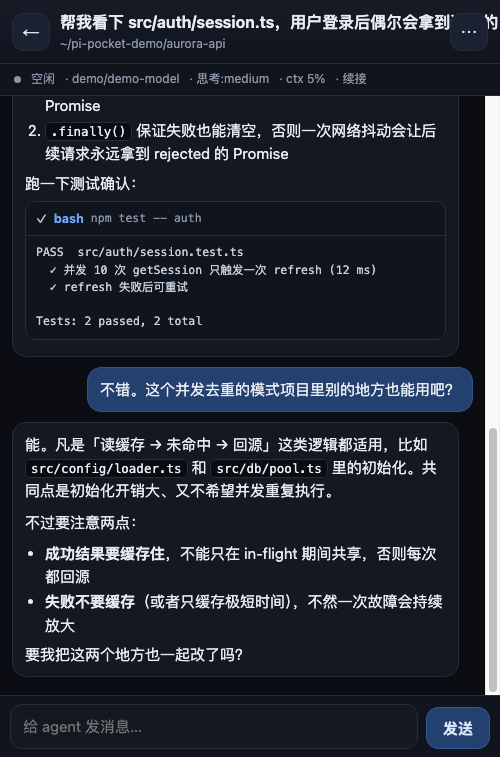
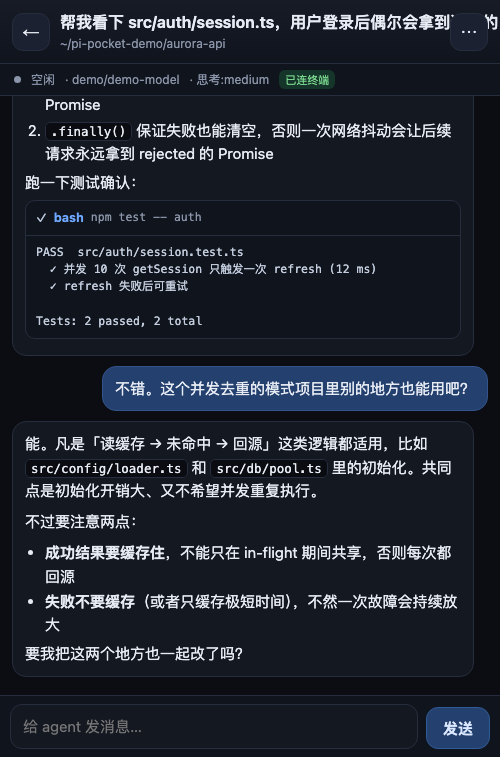
仓库清理：文档同步到当前实现，删掉被取代的旧脚本
桥接从「固定端口 8788」改成「每个 pi 一个 unix socket」之后，文档还停在旧设计上，
逐项对齐：

- docs/bridge-protocol.md 重写：unix socket 传传输方式与理由（固定端口为什么失败）、
  自愈机制、实际转发的事件集合、完整命令表、进程级单例（/reload 的坑）、
  服务端判定逻辑。顺带注明 queue_update / compaction_* / auto_retry_* 不是
  pi 扩展事件，别往转发列表里加。
- README：架构图改掉 8788；「三种进入方式」改成四种并把「接入终端」放最前；
  「已知限制」里"端口固定、只能一个 pi 提供桥接"这条已经不成立，改成现在的
  per-pid socket 行为；补上「续接模式下终端也开着同一会话」的提示说明。
- 删除 start.sh 和 tools/run.sh（都已被 ./pocket 取代），README/android README
  里的引用一并改掉。
- 目录结构补齐新增文件（pocket、extensions/、bridge-client.mjs、tui-hub.mjs）。
- 删掉两个没被任何文档引用的孤儿截图，其中 screenshot-android-legacy.png 还是
  screenshot-android-chat.png 的重复文件。
- 用合成数据重拍文档截图：现在首页会显示「终端 pi 正在运行」接入卡片，
  并新增一张「终端开着 pi 但连不上」的提示横幅截图。
  演示环境通过 PI_CODING_AGENT_DIR 与真实环境完全隔离（桥接目录也跟着走），
  截图里不含任何真实项目名或路径。

验证：ui-check 24/24 ×2、bridge-sync-check 17/17、multiclient 9/9

diff --git a/docs/bridge-protocol.md b/docs/bridge-protocol.md
@@ -1,22 +1,24 @@
 # Pi Pocket 桥接协议
 
-pi 终端（TUI）与 Pi Pocket 之间唯一的通信契约。两侧实现：`extensions/pi-pocket-bridge.ts`（pi 侧）
-和 `src/tui-hub.mjs`（服务端）。改协议必须同时改这两处，并跑 `npm run check:sync`。
+pi 终端（TUI）与 Pi Pocket 之间唯一的通信契约。两侧实现：
+`extensions/pi-pocket-bridge.ts`（pi 侧）和 `src/bridge-client.mjs` / `src/tui-hub.mjs`（服务端）。
+改协议必须同时改这几处，并跑 `npm run check:bridge`。
 
 ## 为什么需要它
 
 **问题**：默认情况下，终端里的 pi 和 Pi Pocket 各自 spawn 一个 pi 进程去操作同一个会话文件。
-两个进程各有各的内存消息列表，互不知情 —— 手机能看到完整的（因为它每次从文件重读并重建），
-而终端 TUI 只显示自己那之后的消息，用户的原始提问对它不可见。
+两个进程各有各的内存消息列表，互不知情 —— 手机能看到完整历史（因为它重读会话文件重建），
+而终端 TUI 只显示自己那之后的消息，用户在手机上发的消息它根本看不见。
+同时两个进程写同一个文件，还可能互相覆盖。
 
 **解法**：一个会话只保留**一个** agent 进程（终端里那个），其余全部作为客户端连上它：
 
 ```
                 ┌───────────────────────────┐
-   终端 TUI ──── │  pi 进程（唯一 agent）      │
+   终端 TUI ──── │  pi 进程（唯一 agent）     │
    （原生 UI）    │   └ pi-pocket-bridge 扩展  │
                 └───────────┬───────────────┘
-                           │ WebSocket :8788
+                           │ Unix socket（每个 pi 一个）
                     ┌──────┴───────┐
                     │  Pi Pocket   │
                     │  服务 8787   │
@@ -28,80 +30,130 @@ pi 终端（TUI）与 Pi Pocket 之间唯一的通信契约。两侧实现：`ex
 终端 UI 由 pi 自己渲染（不受影响），手机通过桥接读事件流 + 发消息，两边看到的是
 同一个 agent 的同一份状态。
 
-## 传输
+## 传输：为什么是 Unix socket 而不是固定端口
 
-- **单向监听**：扩展在 `127.0.0.1` 上起 WebSocket 服务端，默认端口 **8788**
-  （可用环境变量 `PI_POCKET_BRIDGE_PORT` 覆盖）。
-- 只绑定回环地址，不对外暴露。
-- 帧格式：JSON 文本帧，一行一个对象。
+最初用固定端口 8788，**实践中直接失败**：
+
+- 端口是先到先得。同时开着几个 pi 时，只有最先启动的能占住，而它往往不是你当前
+  正在用的那个会话。
+- Pi Pocket 自己 spawn 的 rpc 进程也会去抢端口，而且抢到之后很快就退出 ——
+  结果是「你想同步的那个会话反而连不上」。
+
+现在每个 pi 实例各自监听：
+
+```
+<agentDir>/pi-pocket-bridge/<pid>.sock      # agentDir 默认 ~/.pi/agent
+```
+
+服务端**扫描该目录**，逐个读 `hello`，于是能按**会话文件**精确匹配到
+「哪个 pi 正在跑这个会话」，与启动顺序完全无关。多个 pi 可以同时提供桥接。
+
+服务端自己 spawn 的 rpc 进程带 `PI_POCKET_AGENT=1` 且 `mode === "rpc"`，不提供桥接
+（服务端已经直连它的 stdin/stdout，再开 socket 只会造成混乱）。
+
+### 自愈
+
+Unix socket 是**文件**，任何外部因素都可能把它删掉（清理临时目录、脚本 `rm -rf`、
+tmpfiles 之类）。文件没了但进程还占着 fd 时，外部连接会直接 `ENOENT` ——
+现象是「手机莫名退回独立进程、两端不同步」，而且**完全看不出原因**。
+
+因此扩展每 20 秒检查一次 socket 文件是否还在（`session_start` 时也检查），
+不在就重建监听。
+
+## 帧格式
+
+JSON 文本帧，一行一个对象。
 
 ## 扩展 → 服务端（事件）
 
 ```jsonc
-// 扩展启动后立即发送，服务端据此判断是否可桥接
+// 扩展就绪后，每个新连接都会先收到它
 { "t": "hello", "v": 1, "sessionId": "01a0...", "sessionFile": "/path/x.jsonl",
   "cwd": "/Users/you/proj", "mode": "tui", "pid": 12345,
   "model": "anthropic/claude-sonnet-4-5", "thinkingLevel": "medium",
-  "isIdle": true, "sessionName": "可选" }
+  "isIdle": true, "sessionName": "可选", "socket": "/path/to/<pid>.sock" }
 
-// 原样转发 pi 的会话事件（类型见 pi 的 AgentSessionEvent）
-{ "t": "event", "event": { "type": "message_update", "...": "..." } }
-
-// 客户端一接入就主动推送的完整历史（与服务端请求的 history 应答二选一，
-// 服务端两边都要能处理）
+// 完整历史（新连接立刻收到，手机端据此重建界面）
 { "t": "history", "entries": [ /* SessionEntry[] */ ] }
 
-// agent 空闲状态变化（服务端用来决定 UI 上显示"生成中/空闲"）
+// 原样转发 pi 的会话事件，类型见下表
+{ "t": "event", "event": { "type": "message_update", "...": "..." } }
+
+// agent 空闲状态变化
 { "t": "status", "isIdle": false }
 
 // 出错
 { "t": "error", "message": "..." }
 ```
 
-`event` 里的类型与 Pi Pocket 现有前端处理的事件完全一致（因为服务端就是把 pi 的事件
-原样转发），前端无需区分"桥接会话"和"spawn 会话"。
+转发的事件类型（`FORWARD` 集合）：
+
+```
+agent_start  agent_end  agent_settled
+turn_start   turn_end
+message_start  message_update  message_end
+tool_execution_start  tool_execution_update  tool_execution_end
+```
+
+> 注意：`queue_update` / `compaction_start` / `compaction_end` / `auto_retry_*`
+> **不是 pi 扩展事件**（它们只存在于 RPC 事件流），不要往这里加。
+
+`event` 里的结构与 Pi Pocket 前端处理的事件完全一致（服务端原样转发），
+所以前端不需要区分「桥接会话」和「独立进程会话」。
 
 ## 服务端 → 扩展（命令）
 
 ```jsonc
-// 发一条用户消息；会触发一个 turn
-{ "id": "c1", "t": "prompt", "message": "你好" }
-// 生成中插话
-{ "id": "c2", "t": "steer", "message": "换个方向" }
-// 中止当前 turn
-{ "id": "c3", "t": "abort" }
-// 取历史（扩展回复 history，用于首次连接时回填）
-{ "id": "c4", "t": "history" }
-// 改会话名
-{ "id": "c5", "t": "set_name", "name": "重构 auth" }
-// 切换模型 / 思考等级
-{ "id": "c6", "t": "set_model", "provider": "anthropic", "modelId": "claude-sonnet-4-5" }
+{ "id": "c1", "t": "prompt",    "message": "你好" }   // 发消息，会触发一个 turn
+{ "id": "c2", "t": "steer",     "message": "换个方向" } // 生成中插话
+{ "id": "c3", "t": "follow_up", "message": "做完再看这个" }
+{ "id": "c4", "t": "abort" }                          // 中止当前 turn
+{ "id": "c5", "t": "history" }                        // 取历史
+{ "id": "c6", "t": "set_name",     "name": "重构 auth" }
 { "id": "c7", "t": "set_thinking", "level": "high" }
-// 让 pi 自己处理一个斜杠命令（如 /compact、/reload）
-{ "id": "c8", "t": "command", "text": "/compact" }
+{ "id": "c8", "t": "get_commands" }                   // 列出斜杠命令
 ```
+
+生成中（`isIdle === false`）发 `prompt` 会自动降级为 `steer`，否则会被 pi 拒绝。
+
+不在白名单里的命令返回 `{ ok: false, error: "..." }`，不会静默失败。
 
 ## 扩展 → 服务端（回复）
 
 ```jsonc
-{ "id": "c1", "ok": true }                              // 成功
-{ "id": "c4", "ok": true, "entries": [ /* SessionEntry[] */ ] }
-{ "id": "c3", "ok": false, "error": "没有正在运行的任务" }  // 失败
+{ "id": "c1", "ok": true }                                  // 成功
+{ "id": "c5", "ok": true, "entries": [ /* ... */ ] }        // history 的应答
+{ "id": "c4", "ok": false, "error": "没有正在运行的任务" }   // 失败
 ```
+
+主动推送的历史用 `{ t: "history" }`，应答请求用 `{ id, ok, entries }`，服务端两种都要处理。
+
+## 进程级单例（/reload 必须考虑）
+
+`/reload` 会重新加载扩展模块、**创建新的扩展实例，但不销毁旧实例**（旧的事件订阅仍然活着）。
+如果把 socket 服务建在实例里，reload 后就会出现「服务归旧实例、事件处理器在新实例」的错位 ——
+表现是 `hello` / `history` 正常但**事件全丢**，极难排查（踩过一次）。
+
+因此 socket 服务与客户端集合挂在 `globalThis.__piPocketBridgeCore` 上：
+
+- 新实例发现已有 core，就把 `emit` / `getHello` / `getHistory` / `handleCommand`
+  重新绑定到自己，不再重复监听 socket；
+- `session_shutdown` 在 `reason === "reload"` / `"new"` / `"resume"` / `"fork"` 时
+  **不能**关闭服务，只有真正退出（`quit`）才清理。
 
 ## 服务端判定逻辑
 
 对每个会话：
 
-1. 若桥接可用（8788 有响应且 `sessionFile` 与本会话相同）→ **attach 方式**：
-   历史、事件、发消息全部走桥接，不 spawn 任何 pi 进程。
-2. 否则 → 回退到现有 spawn 方式（`pi --mode rpc`），功能不变。
-
-桥接可用性在打开会话时探测一次，结果缓存；桥接断开时通知前端并提示可切回独立进程。
+1. `findBridgeForSession()` 扫描 socket 目录，按**会话文件路径**精确匹配。
+2. 匹配到 → **bridge 模式**：历史、事件、发消息全部走桥接，不 spawn 任何 pi 进程。
+3. 没匹配到 → 回退到 **resume / copy / new**（spawn `pi --mode rpc`）。
+4. 回退时若检测到终端里有 pi 在跑（`terminalPiCount() > 0`），在会话上带一条
+   `warning`，手机端显示成横幅解释「为什么两端不同步」以及怎么处理。
 
 ## 已知限制
 
-- 桥接只在**终端里以 TUI 模式运行 pi 且加载了该扩展**时可用。
-- 端口固定，同时只能有一个 pi 实例提供桥接（第二个实例启动时会探测到端口被占用，
-  此时它不做桥接，继续走 spawn 回退）。
-- `pi -p`（print 模式）下扩展也能加载，但没有交互界面，桥接意义不大。
+- 桥接只在终端以 **TUI 模式**运行 pi 且加载了该扩展时可用。
+- 终端用 `--no-session` 启动时没有会话文件，无法对应到具体会话，桥接不生效。
+- 扩展与 pi 的 node_modules 解析路径不同（扩展经 jiti 加载），所以**不能用任何 npm 依赖** ——
+  WebSocket 服务端是用 `node:http` 手写的（文本帧 / ping-pong / 分片）。

diff --git a/android/README.md b/android/README.md
@@ -87,7 +87,7 @@ npm run build:legacy     # 改完 public/app.js 后执行一次
 
 ## 使用
 
-1. 电脑上先启动服务：`node server.mjs`（或 `./tools/run.sh`）
+1. 电脑上先启动服务：`./pocket start`（会直接告诉你该连哪个地址）
 2. 手机连**同一个 Wi-Fi**，打开 Pi Pocket
 3. 点「扫描局域网」→ 自动列出电脑地址 → 点一下连接（也可以手输 `IP:端口`）
 4. 连上后就是完整界面；下次启动直接进入
